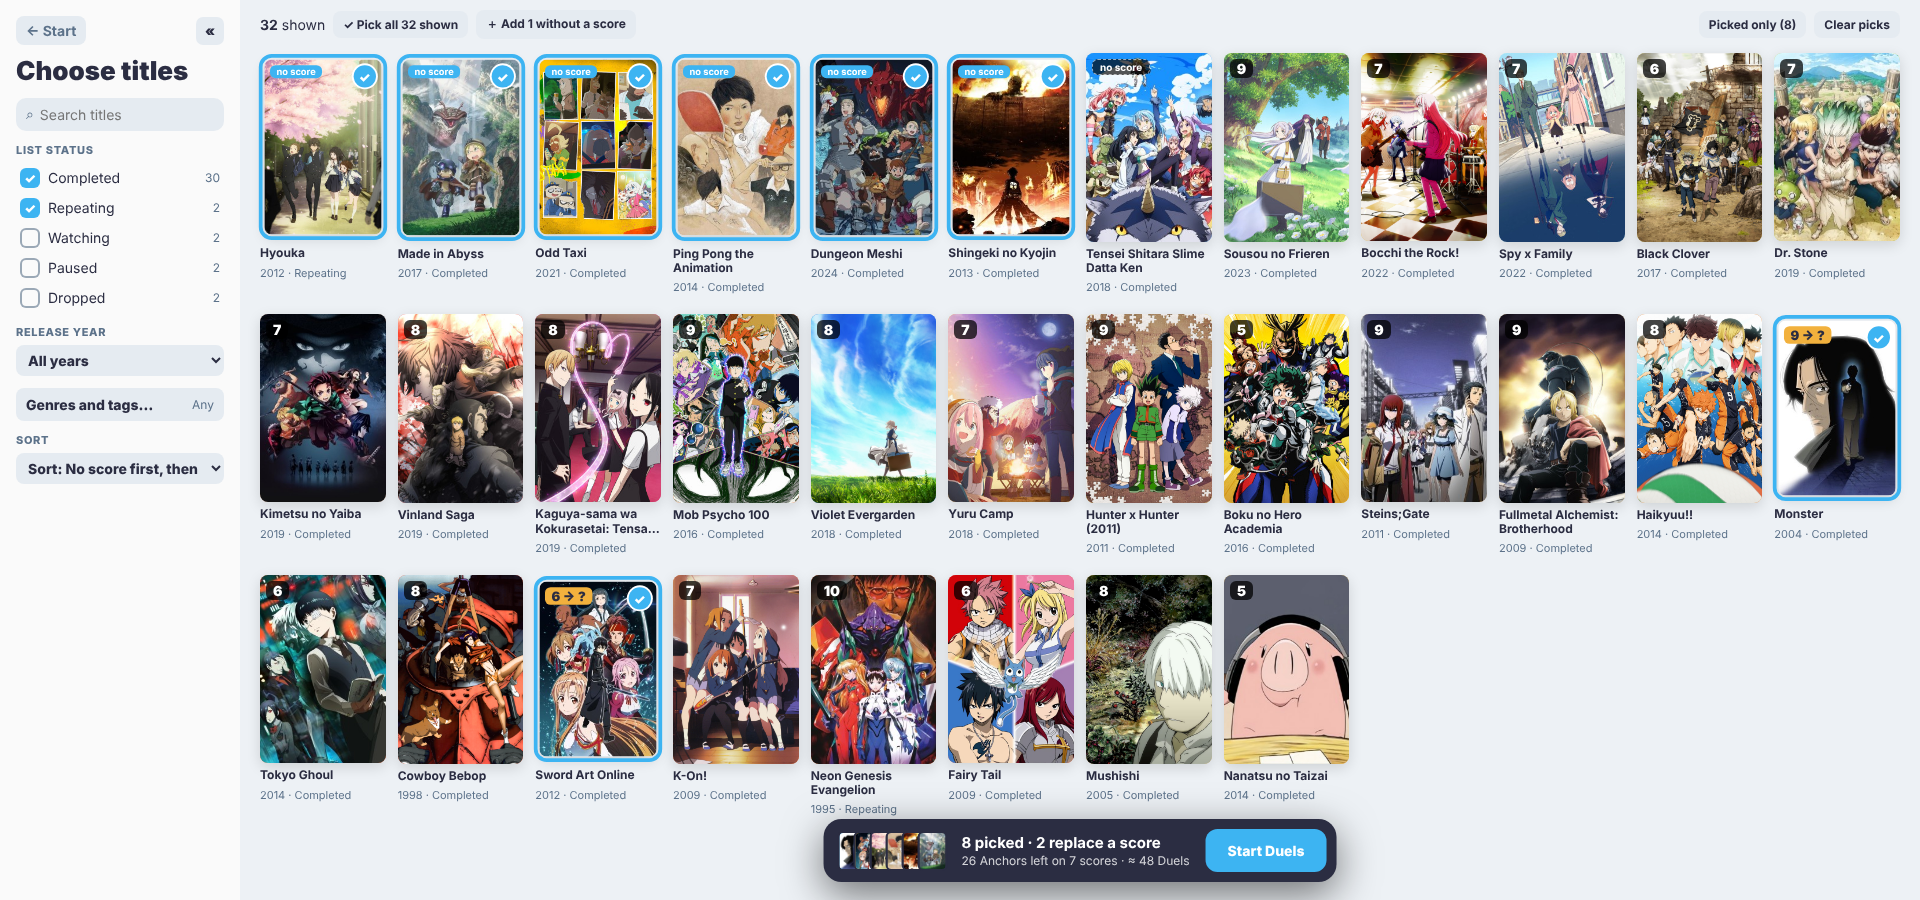
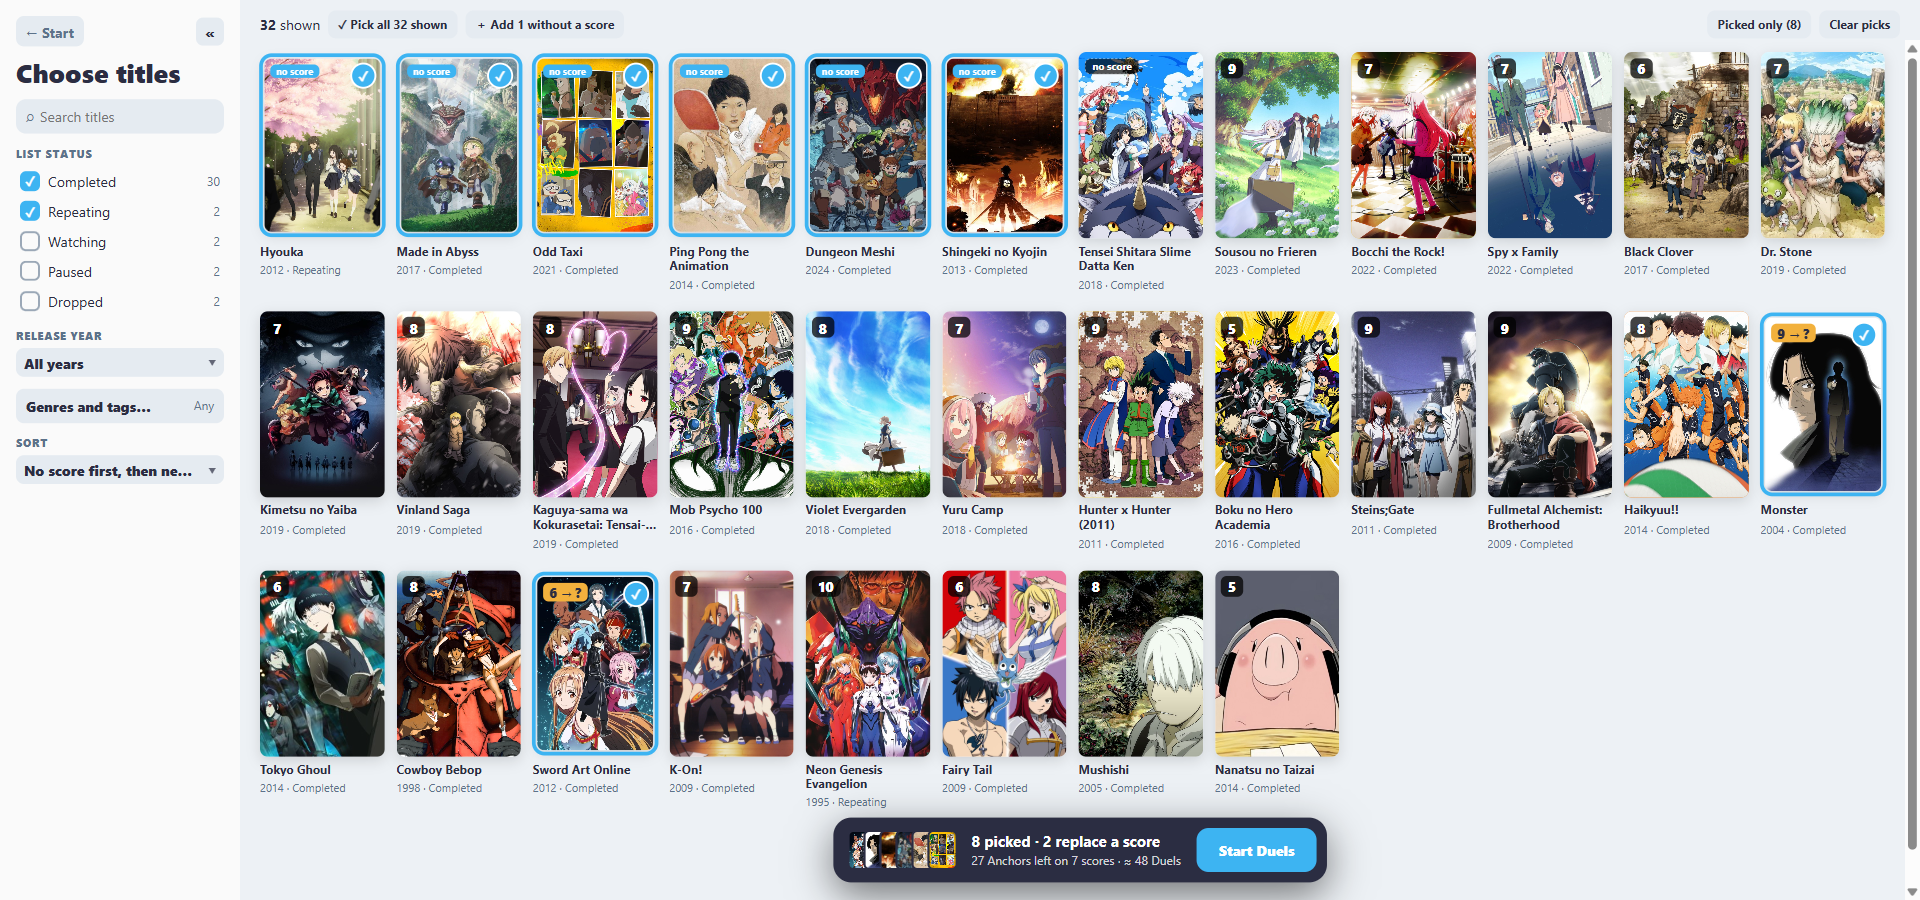
README: the Keep My Scale eval, ?fake-anilist, and fresh screenshots
The scripts table lists eval:keep-my-scale, Development says how to open
the app against the fake AniList, and the project layout names dev/, the
Picker screen and the Keep My Scale parts of persistence/, scripts/ and
docs/research/.

picker.png showed the system dropdowns that Select replaced. start.png
and keep-my-scale.png were taken without the Overpass font; all three
are retaken from the dev fake AniList with real covers.

diff --git a/README.md b/README.md
@@ -138,6 +138,9 @@ npm run dev        # http://localhost:5173/aniduel/
 | `npm run build` | Typecheck and build to `dist/` |
 | `npm run preview` | Serve the built `dist/` |
 | `npm run eval:catchup` | Holdout eval used to choose the Catch-up suggestion weights |
+| `npm run eval:keep-my-scale` | Simulated-user eval of the Keep My Scale placement rules; run it before and after changing one |
+
+To see a screen without an AniList login, open `http://localhost:5173/aniduel/?fake-anilist`: the app signed in against a fake AniList with a fixed list (`src/dev/fakeSession.ts`). Dev server only, and every page load starts fresh.
 
 Login uses AniList's OAuth implicit grant. Two AniList API clients are registered in `src/config.ts`: one for production (`https://zennnne.github.io/aniduel/`) and one for local dev (`http://localhost:5173/aniduel/`). The redirect URL must match exactly, so run the dev server on port 5173.
 
@@ -153,11 +156,12 @@ src/
   catchup/      Catch-up suggestions, batches, Passed titles, starting era, exit offer
   import/       Import plan and state
   writes/       Write queue and rate limiter shared by Import (scores) and Catch-up (list statuses)
-  persistence/  Saved progress and Backup files
-  ui/           React screens (Start, Rough Sort, Board, Band choice, Duel, Split, Preview, Import, Catch-up)
-scripts/        Catch-up holdout eval
+  persistence/  Saved progress, Backup files, and the titles a Keep My Scale Ranking left unsettled
+  dev/          Dev-only fake AniList session (`?fake-anilist`)
+  ui/           React screens (Start, Picker, Rough Sort, Board, Band choice, Duel, Split, Preview, Import, Catch-up)
+scripts/        Catch-up holdout eval and Keep My Scale simulated-user eval
 docs/adr/       Architecture decision records
-docs/research/  Research behind the Catch-up suggestions
+docs/research/  Research behind the Catch-up suggestions and Keep My Scale scoring
 ```
 
 Key design decisions:
@@ -170,7 +174,7 @@ Key design decisions:
 - [ADR 0006](docs/adr/0006-split-oversized-bands-into-sub-bands.md) — Oversized Bands split into three Sub-bands.
 - [ADR 0007](docs/adr/0007-sort-goal-scores-with-settings-in-the-duel-log.md) — Sort Goal: Scores or Full Ranking (the default follows the Pool size), with scoring settings in the Duel log.
 - [ADR 0008](docs/adr/0008-rough-sort-from-scores-as-one-event.md) — Rough Sort from Scores is one event that carries every Band choice.
-- [ADR 0009](docs/adr/0009-score-new-titles-against-anchors.md) — Keep My Scale: a third Sort Goal that scores unscored titles against fixed Anchors.
+- [ADR 0009](docs/adr/0009-score-new-titles-against-anchors.md) — Keep My Scale: a third Sort Goal that scores titles against fixed Anchors.
 - [ADR 0010](docs/adr/0010-score-new-titles-ends-with-its-import.md) — A Keep My Scale Ranking ends with its Import.
 - [ADR 0011](docs/adr/0011-keep-my-scale-a-hand-picked-pool.md) — Keep My Scale: the name of the third Sort Goal, and a Pool picked by hand.
 - [ADR 0012](docs/adr/0012-keep-my-scale-a-split-on-a-score-is-not-asked.md) — Keep My Scale: a title split on a score gets that score instead of the Closer-to prompt.
